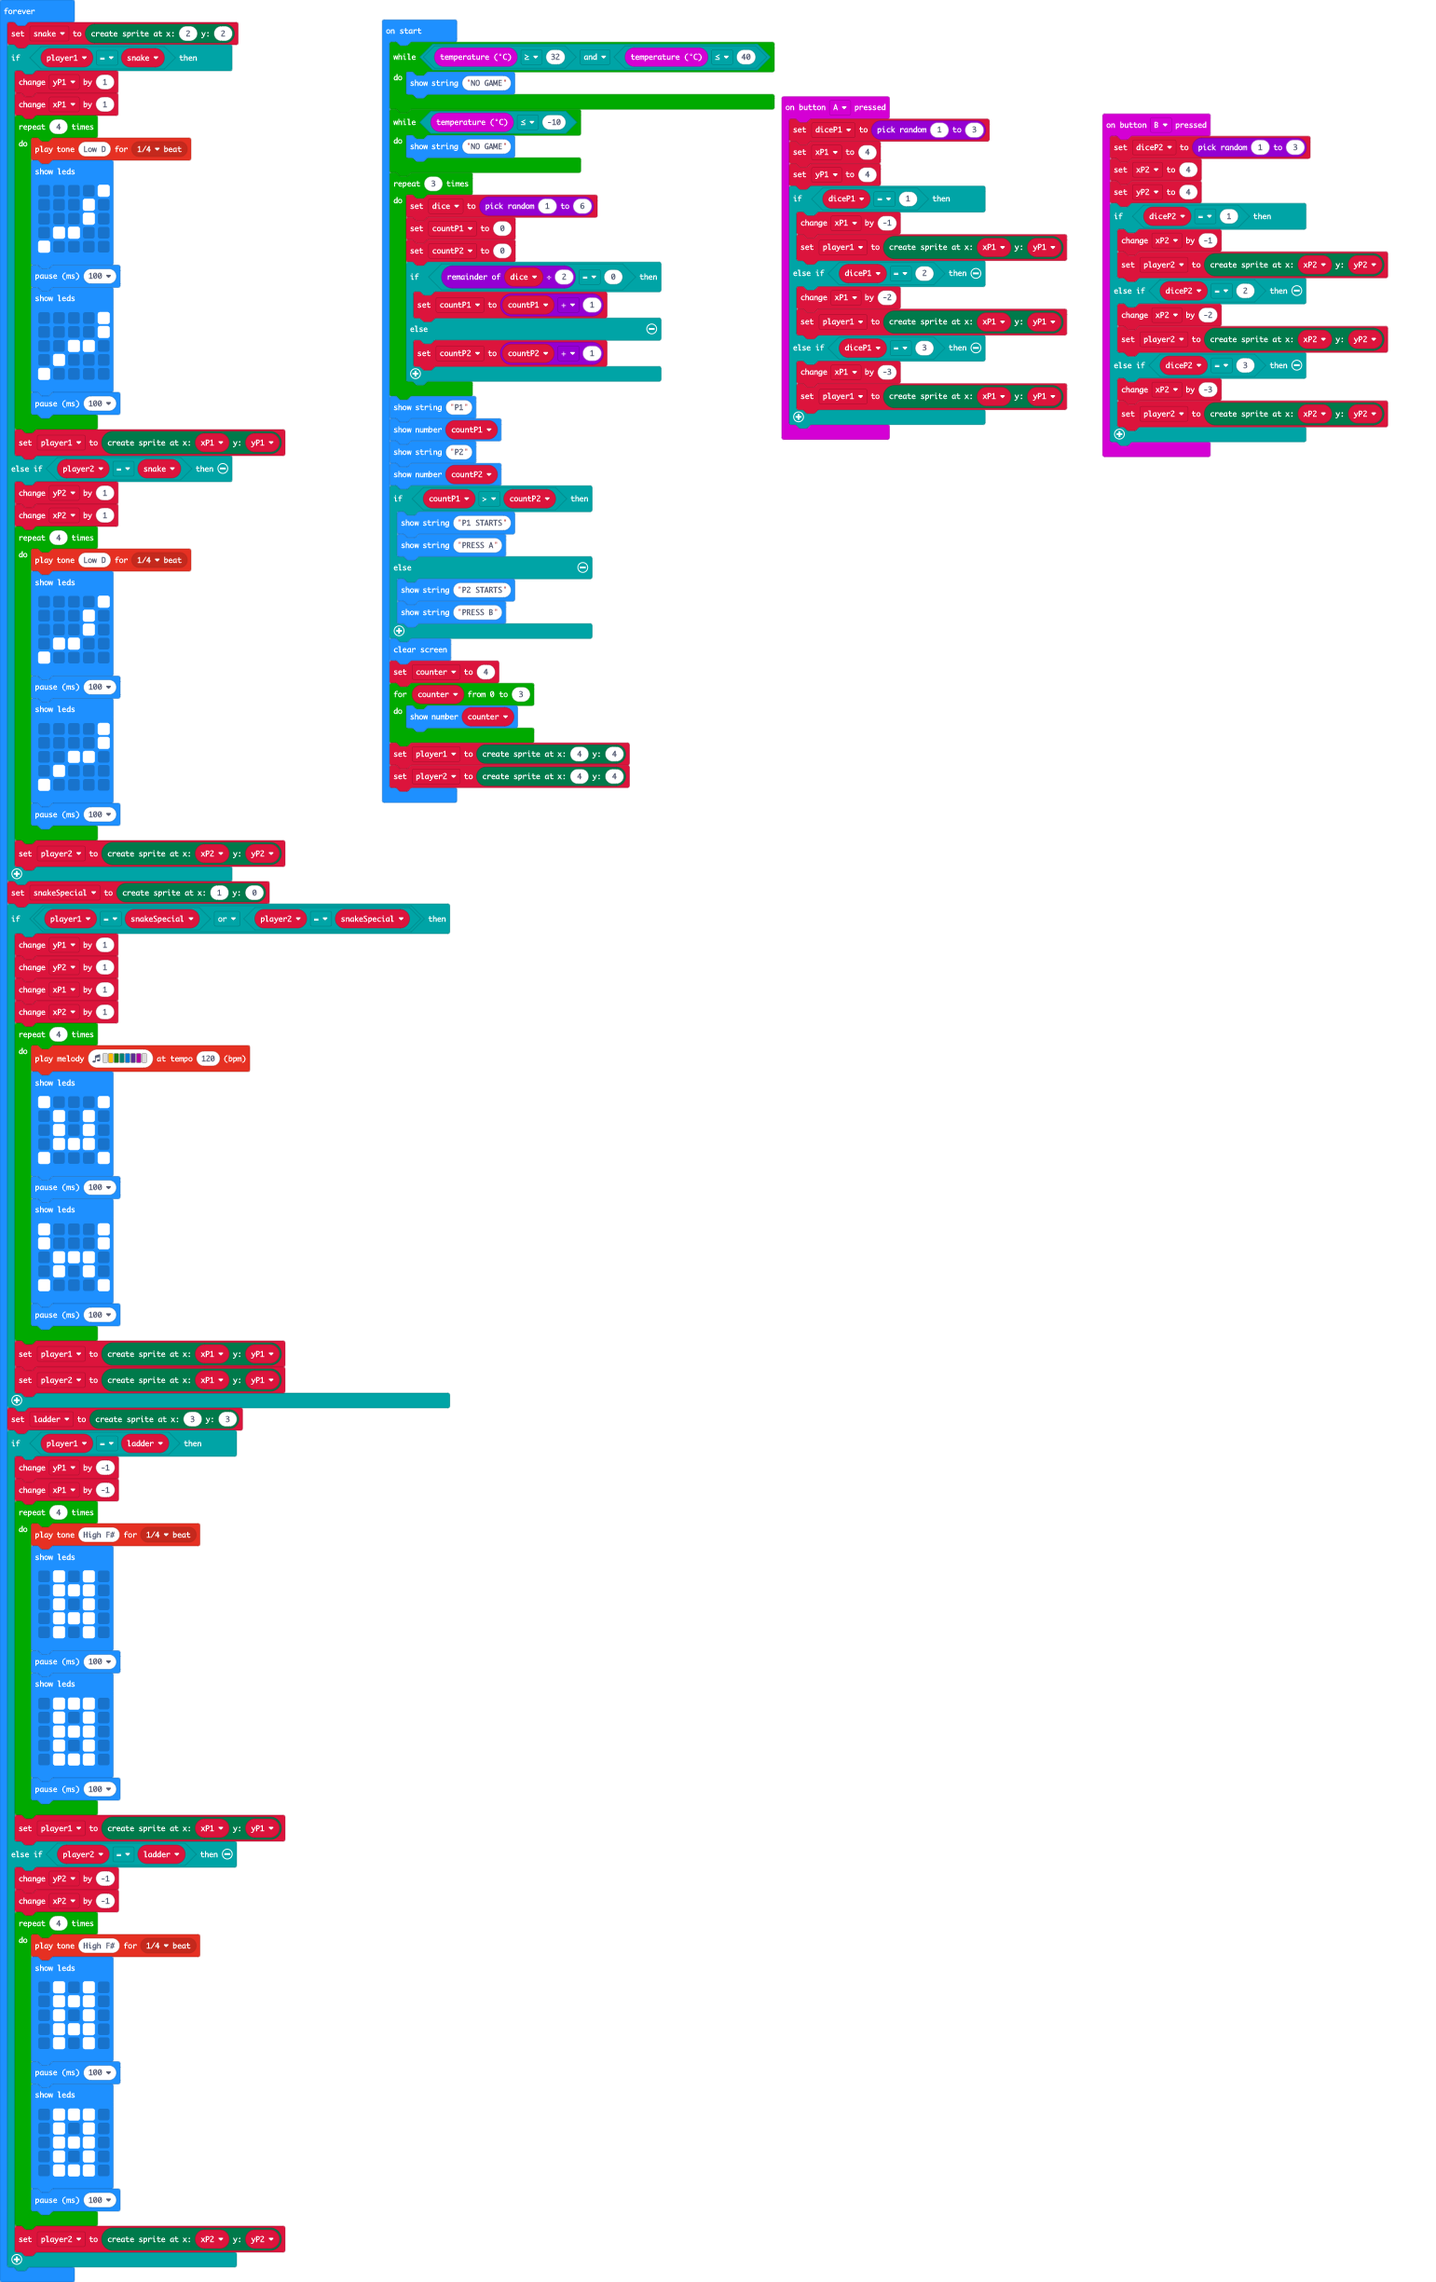
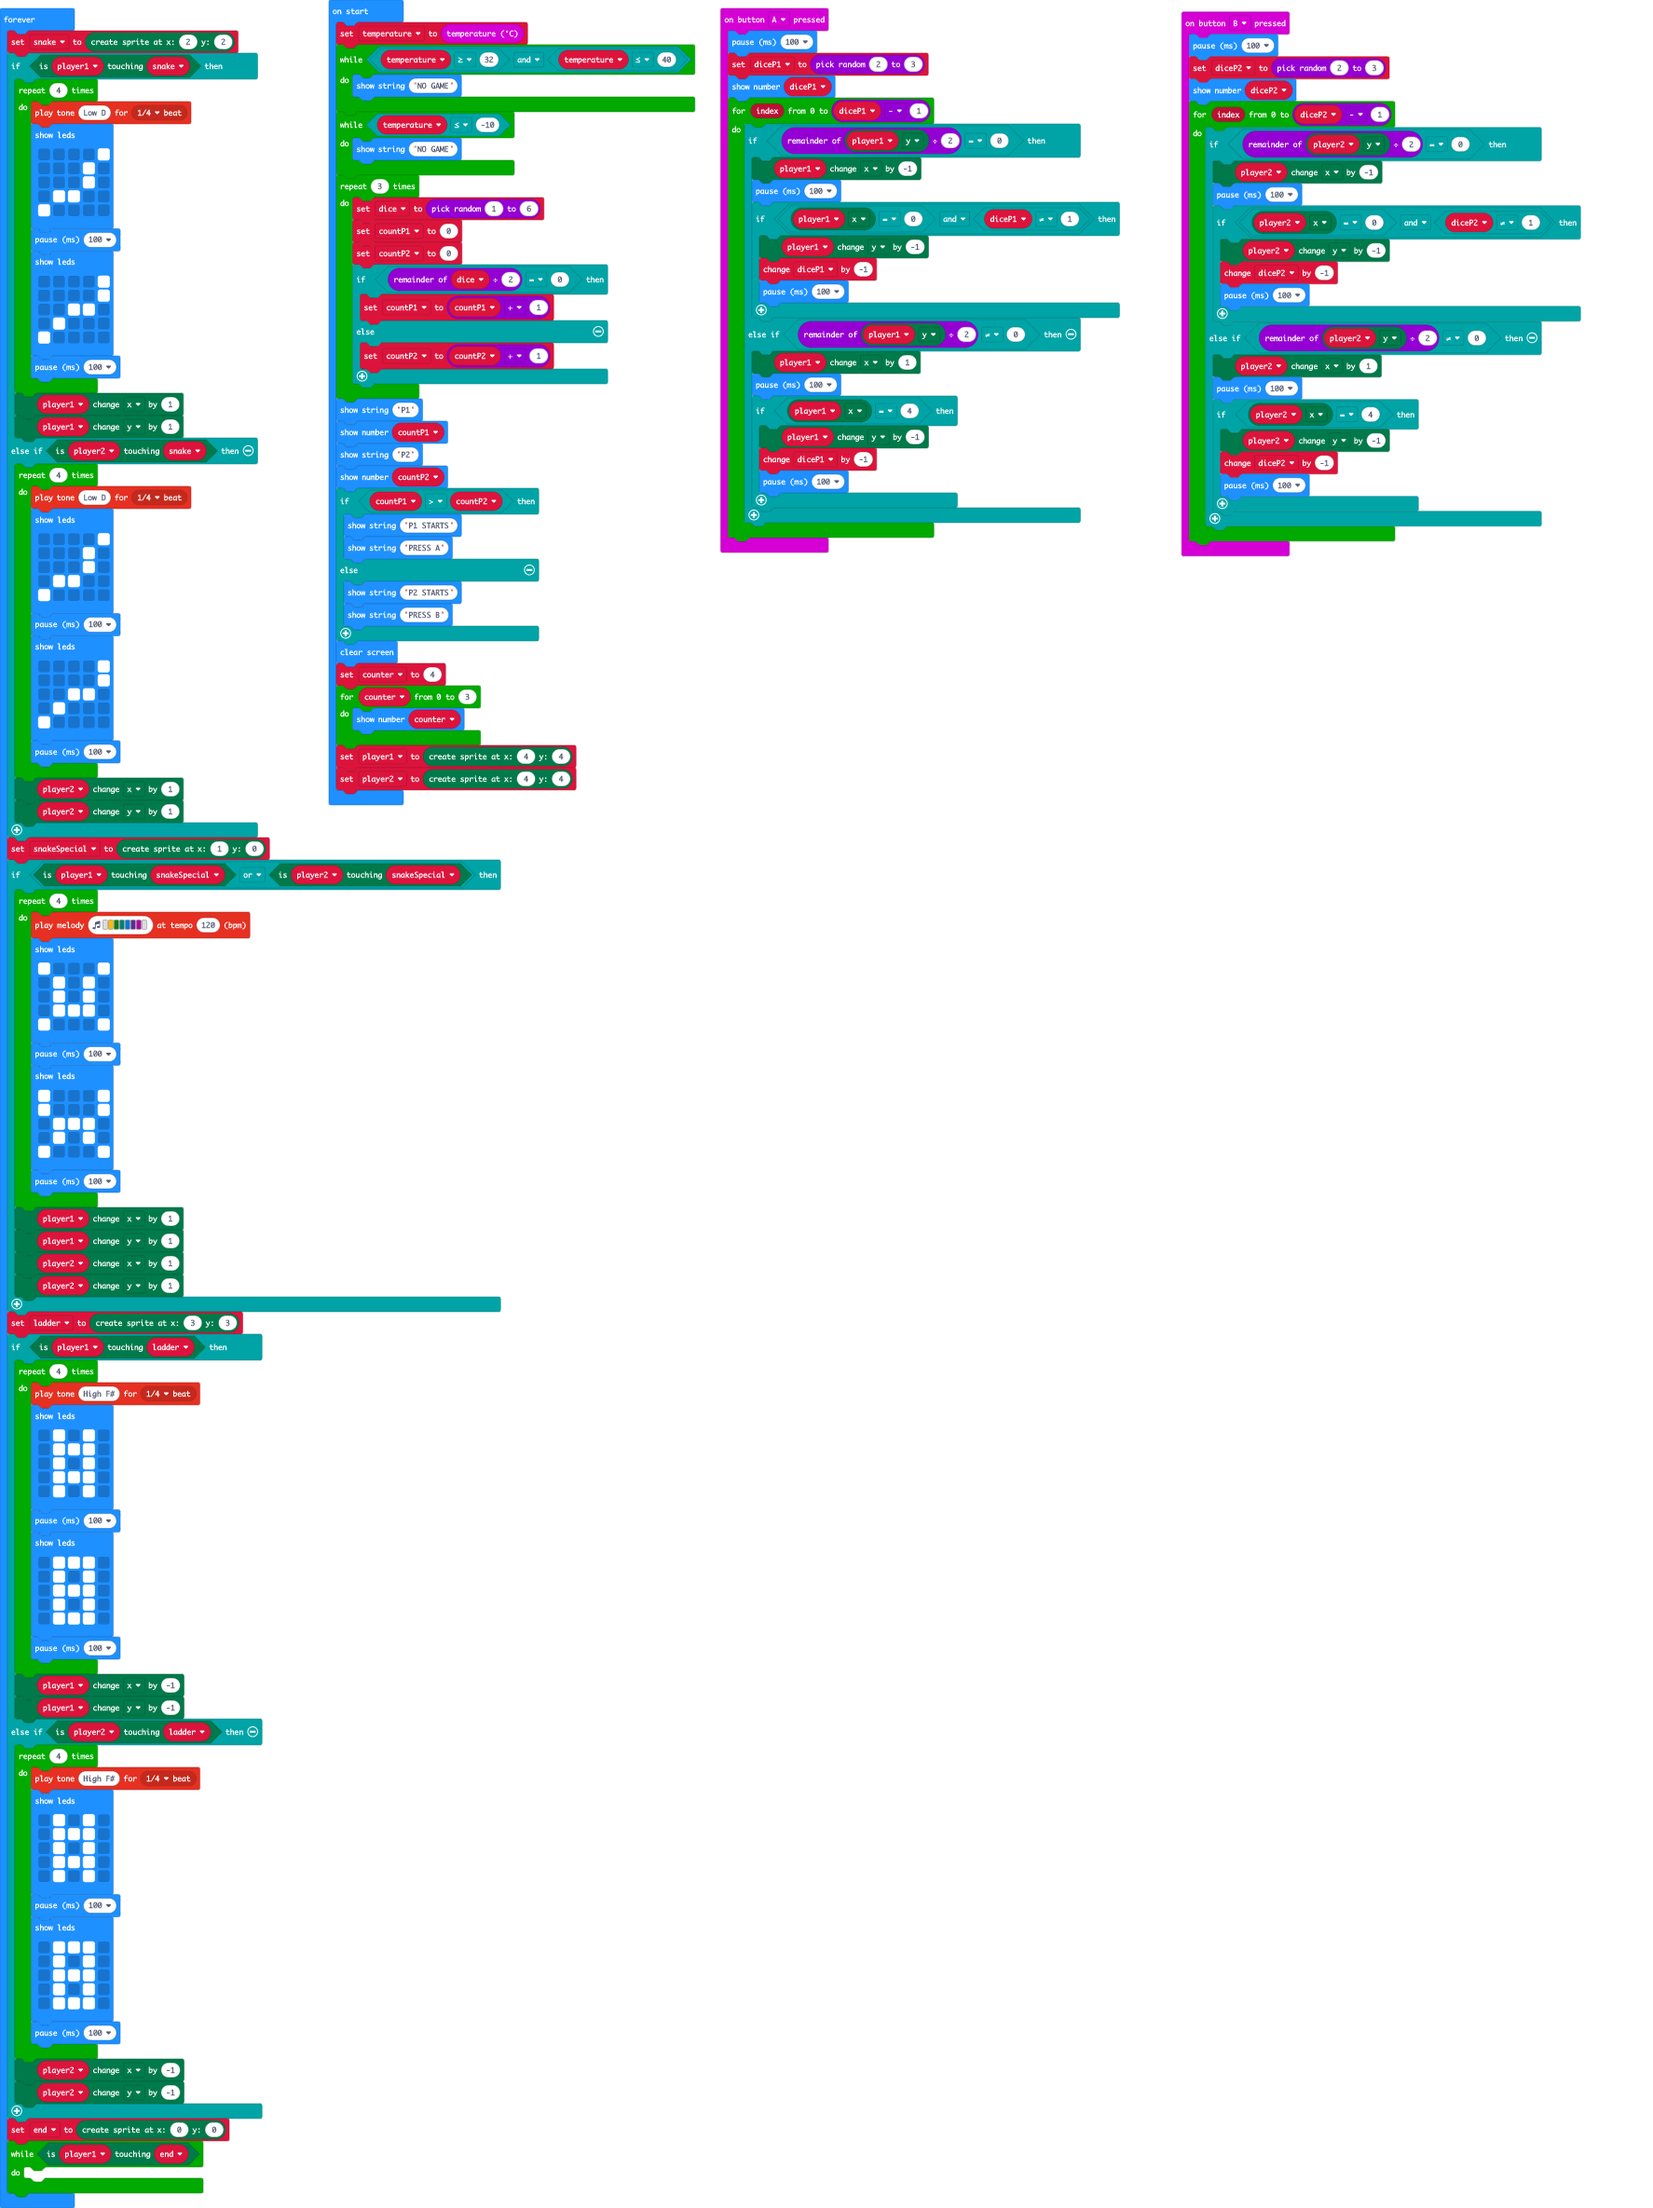
Update main.blocks, main.ts

Changed region(s): [[0.0, 0.0, 0.9656, 1.0]]

diff --git a/main.ts b/main.ts
@@ -1,51 +1,67 @@
 input.onButtonPressed(Button.A, function () {
-    diceP1 = randint(1, 3)
-    xP1 = 4
-    yP1 = 4
-    if (diceP1 == 1) {
-        xP1 += -1
-        player1 = game.createSprite(xP1, yP1)
-    } else if (diceP1 == 2) {
-        xP1 += -2
-        player1 = game.createSprite(xP1, yP1)
-    } else if (diceP1 == 3) {
-        xP1 += -3
-        player1 = game.createSprite(xP1, yP1)
+    basic.pause(100)
+    diceP1 = randint(2, 3)
+    basic.showNumber(diceP1)
+    for (let index = 0; index <= diceP1 - 1; index++) {
+        if (player1.get(LedSpriteProperty.Y) % 2 == 0) {
+            player1.change(LedSpriteProperty.X, -1)
+            basic.pause(100)
+            if (player1.get(LedSpriteProperty.X) == 0 && diceP1 != 1) {
+                player1.change(LedSpriteProperty.Y, -1)
+                diceP1 += -1
+                basic.pause(100)
+            }
+        } else if (player1.get(LedSpriteProperty.Y) % 2 != 0) {
+            player1.change(LedSpriteProperty.X, 1)
+            basic.pause(100)
+            if (player1.get(LedSpriteProperty.X) == 4) {
+                player1.change(LedSpriteProperty.Y, -1)
+                diceP1 += -1
+                basic.pause(100)
+            }
+        }
     }
 })
 input.onButtonPressed(Button.B, function () {
-    diceP2 = randint(1, 3)
-    xP2 = 4
-    yP2 = 4
-    if (diceP2 == 1) {
-        xP2 += -1
-        player2 = game.createSprite(xP2, yP2)
-    } else if (diceP2 == 2) {
-        xP2 += -2
-        player2 = game.createSprite(xP2, yP2)
-    } else if (diceP2 == 3) {
-        xP2 += -3
-        player2 = game.createSprite(xP2, yP2)
+    basic.pause(100)
+    diceP2 = randint(2, 3)
+    basic.showNumber(diceP2)
+    for (let index = 0; index <= diceP2 - 1; index++) {
+        if (player2.get(LedSpriteProperty.Y) % 2 == 0) {
+            player2.change(LedSpriteProperty.X, -1)
+            basic.pause(100)
+            if (player2.get(LedSpriteProperty.X) == 0 && diceP2 != 1) {
+                player2.change(LedSpriteProperty.Y, -1)
+                diceP2 += -1
+                basic.pause(100)
+            }
+        } else if (player2.get(LedSpriteProperty.Y) % 2 != 0) {
+            player2.change(LedSpriteProperty.X, 1)
+            basic.pause(100)
+            if (player2.get(LedSpriteProperty.X) == 4) {
+                player2.change(LedSpriteProperty.Y, -1)
+                diceP2 += -1
+                basic.pause(100)
+            }
+        }
     }
 })
+let end: game.LedSprite = null
 let ladder: game.LedSprite = null
 let snakeSpecial: game.LedSprite = null
 let snake: game.LedSprite = null
-let yP2 = 0
-let xP2 = 0
 let diceP2 = 0
-let yP1 = 0
-let xP1 = 0
 let diceP1 = 0
 let player2: game.LedSprite = null
 let player1: game.LedSprite = null
 let countP2 = 0
 let countP1 = 0
 let dice = 0
-while (input.temperature() >= 32 && input.temperature() <= 40) {
+let temperature = input.temperature()
+while (temperature >= 32 && temperature <= 40) {
     basic.showString("NO GAME")
 }
-while (input.temperature() <= -10) {
+while (temperature <= -10) {
     basic.showString("NO GAME")
 }
 for (let index = 0; index < 3; index++) {
@@ -78,9 +94,7 @@ player1 = game.createSprite(4, 4)
 player2 = game.createSprite(4, 4)
 basic.forever(function () {
     snake = game.createSprite(2, 2)
-    if (player1 == snake) {
-        yP1 += 1
-        xP1 += 1
+    if (player1.isTouching(snake)) {
         for (let index = 0; index < 4; index++) {
             music.playTone(147, music.beat(BeatFraction.Quarter))
             basic.showLeds(`
@@ -100,10 +114,9 @@ basic.forever(function () {
                 `)
             basic.pause(100)
         }
-        player1 = game.createSprite(xP1, yP1)
-    } else if (player2 == snake) {
-        yP2 += 1
-        xP2 += 1
+        player1.change(LedSpriteProperty.X, 1)
+        player1.change(LedSpriteProperty.Y, 1)
+    } else if (player2.isTouching(snake)) {
         for (let index = 0; index < 4; index++) {
             music.playTone(147, music.beat(BeatFraction.Quarter))
             basic.showLeds(`
@@ -123,14 +136,11 @@ basic.forever(function () {
                 `)
             basic.pause(100)
         }
-        player2 = game.createSprite(xP2, yP2)
+        player2.change(LedSpriteProperty.X, 1)
+        player2.change(LedSpriteProperty.Y, 1)
     }
     snakeSpecial = game.createSprite(1, 0)
-    if (player1 == snakeSpecial || player2 == snakeSpecial) {
-        yP1 += 1
-        yP2 += 1
-        xP1 += 1
-        xP2 += 1
+    if (player1.isTouching(snakeSpecial) || player2.isTouching(snakeSpecial)) {
         for (let index = 0; index < 4; index++) {
             music.playMelody("- A G F E D C - ", 120)
             basic.showLeds(`
@@ -150,13 +160,13 @@ basic.forever(function () {
                 `)
             basic.pause(100)
         }
-        player1 = game.createSprite(xP1, yP1)
-        player2 = game.createSprite(xP1, yP1)
+        player1.change(LedSpriteProperty.X, 1)
+        player1.change(LedSpriteProperty.Y, 1)
+        player2.change(LedSpriteProperty.X, 1)
+        player2.change(LedSpriteProperty.Y, 1)
     }
     ladder = game.createSprite(3, 3)
-    if (player1 == ladder) {
-        yP1 += -1
-        xP1 += -1
+    if (player1.isTouching(ladder)) {
         for (let index = 0; index < 4; index++) {
             music.playTone(740, music.beat(BeatFraction.Quarter))
             basic.showLeds(`
@@ -176,10 +186,9 @@ basic.forever(function () {
                 `)
             basic.pause(100)
         }
-        player1 = game.createSprite(xP1, yP1)
-    } else if (player2 == ladder) {
-        yP2 += -1
-        xP2 += -1
+        player1.change(LedSpriteProperty.X, -1)
+        player1.change(LedSpriteProperty.Y, -1)
+    } else if (player2.isTouching(ladder)) {
         for (let index = 0; index < 4; index++) {
             music.playTone(740, music.beat(BeatFraction.Quarter))
             basic.showLeds(`
@@ -199,6 +208,11 @@ basic.forever(function () {
                 `)
             basic.pause(100)
         }
-        player2 = game.createSprite(xP2, yP2)
+        player2.change(LedSpriteProperty.X, -1)
+        player2.change(LedSpriteProperty.Y, -1)
+    }
+    end = game.createSprite(0, 0)
+    while (player1.isTouching(end)) {
+    	
     }
 })
